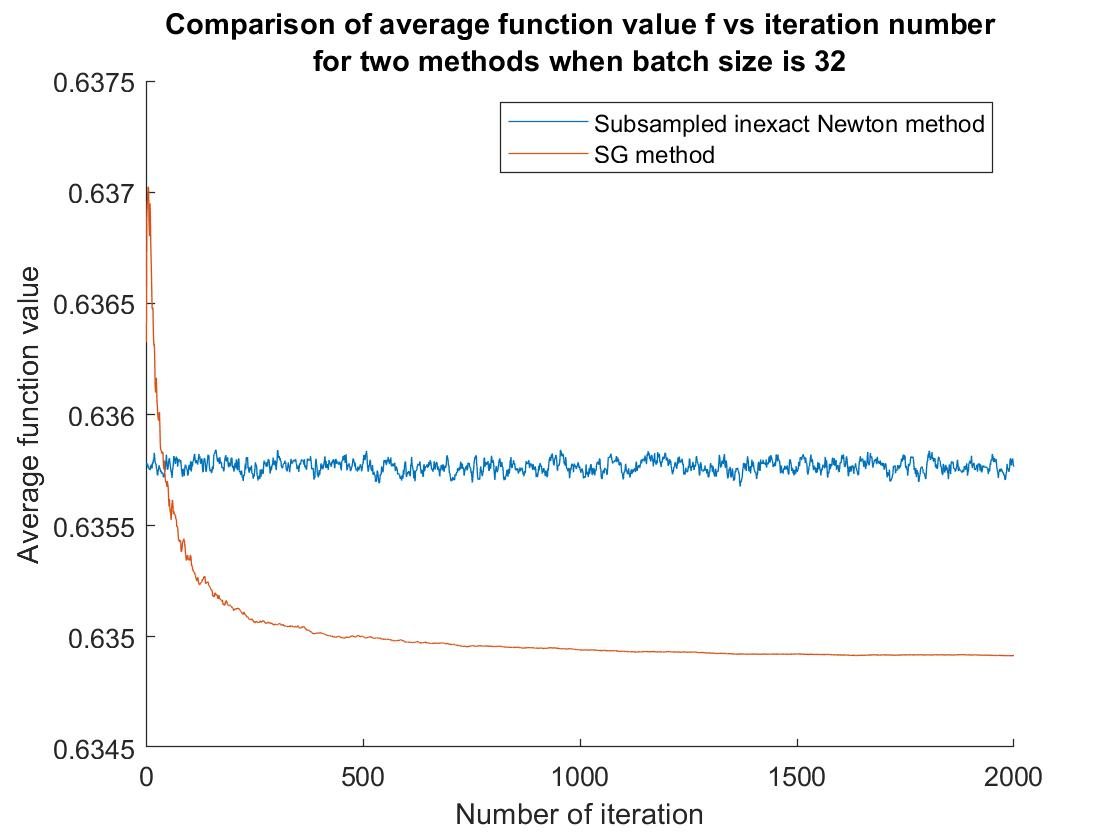
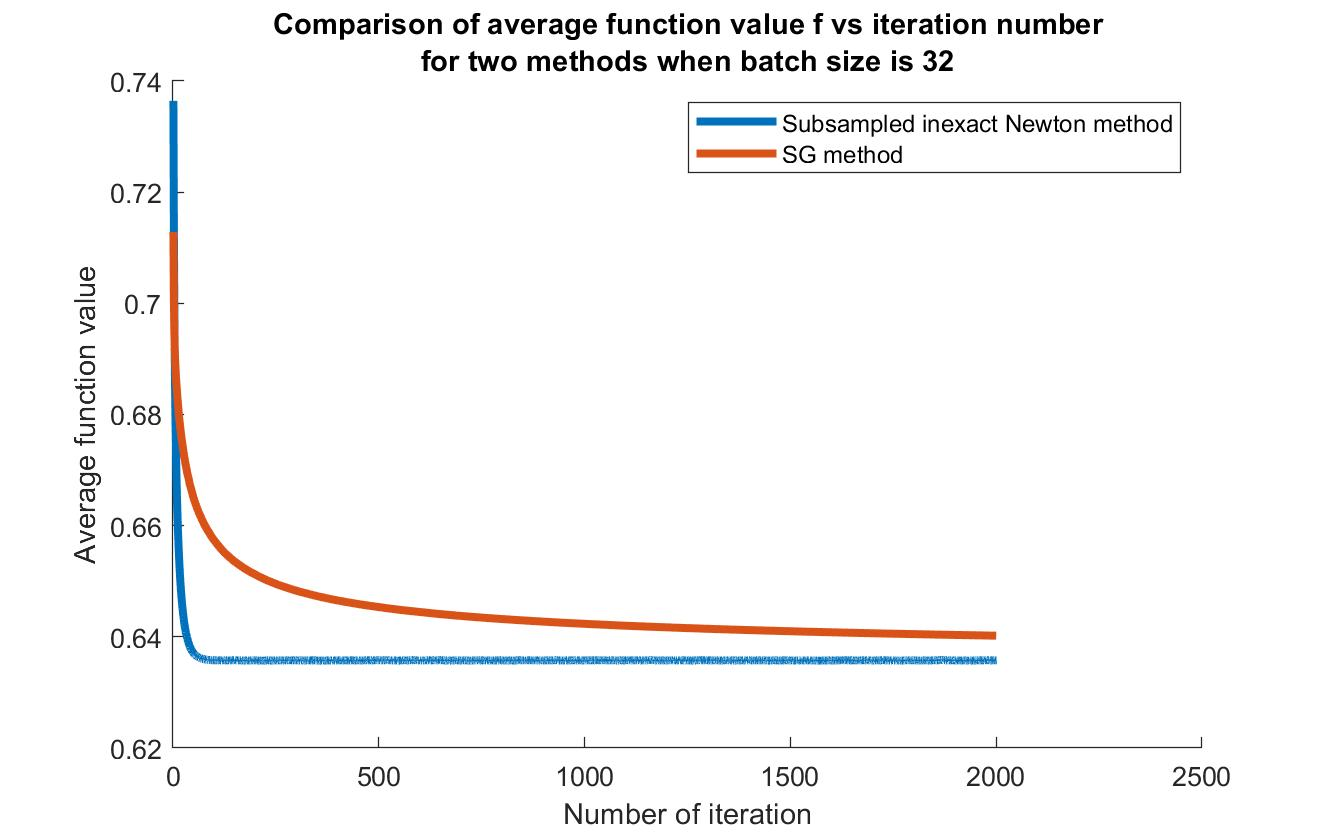
AMSC808N

Changed region(s): [[0.0, 0.0619, 0.9375, 0.9905], [0.1562, 0.0, 0.9062, 0.2167]]

diff --git a/Project/Project 1/Project1/StochasticLBFGS.m b/Project/Project 1/Project1/StochasticLBFGS.m
@@ -1,105 +1,116 @@
-function gnorm = StochasticLBFGS(fun,gfun,Hvec,Y,w)
-%%  the Rosenbrock function and parameters
-a = 5;
-% func = @(x,y)(1-x).^2 + a*(y - x.^2).^2;  % Rosenbrock's function
-% gfun = @(x)[-2*(1-x(1))-4*a*(x(2)-x(1)^2)*x(1);2*a*(x(2)-x(1)^2)]; % gradient of f
-% Hfun = @(x)[2 + 12*a*x(1)^2 - 4*a*x(2), -4*a*x(1); -4*a*x(1), 2*a]; % Hessian of f
-gam = 0.9; % line search step factor
-jmax = ceil(log(1e-14)/log(gam)); % max # of iterations in line search
-eta = 0.5; % backtracking stopping criterion factor
+function [w,f,gnorm] = StochasticLBFGS(fun,gfun,Hvec,Y)
+iter = 1e3;
 tol = 1e-10;
-m = 5; % the number of steps to keep in memory
-%% 
-close all
-figure;
-hold on; grid;
-x0 = [-1.3;1.5];  %initial guess
-xstar = [1;1]; % the global minimizer
-[xx,yy]=meshgrid(linspace(-2,2,1000),linspace(-1.5,2,1000));
-ff = func(xx,yy);
-plot(xstar(1),xstar(2),'r.','Markersize',40);
-daspect([1,1,1])
-col = [0.4,0.2,0];
-%
-s = zeros(2,m);
-y = zeros(2,m);
-rho = zeros(1,m);
-gnorm = zeros(1,1000);
-%
-n = size(Y,1);
-I=1:n;
-bsz = min(n,64); % batch size
 
-x = x0;
-g = gfun(x);
+n = size(Y,1);
+batch_g = 64;
+batch_h = 128;
+m = 5; % the number of steps to keep in memory
+M = 10; %# of steps of updating inverse of Hessian % batch size
+
+
+w0 = [-1;-1;1;1];  %initial guess
+
+
+s = zeros(4,m);
+y = zeros(4,m);
+rho = zeros(1,m);
+gnorm = zeros(iter,1);
+% f = zeros(iter,1);
+%
+w = w0;
+I = 1:n;
+g = gfun(I,Y,w);
 gnorm(1) = norm(g);
-plot(x(1),x(2),'.','color',col,'Markersize',20);
-fx = func(x(1),x(2));
-contour(xx,yy,ff,[fx,fx],'k','Linewidth',1);
+
+a = 0.1;
+
 % first do steepest decend step
-a = linesearch(x,-g,g,func,eta,gam,jmax);
-xnew = x - a*g;
-gnew = gfun(xnew);
-s(:,1) = xnew - x;
+r = randi([1,n],batch_g,1);
+g = gfun(I,Y,w);
+
+wnew = w - a.*g;
+gnew = gfun(I,Y,wnew);
+
+s(:,1) = wnew - w;
 y(:,1) = gnew - g;
 rho(1) = 1/(s(:,1)'*y(:,1));
-plot([x(1),xnew(1)],[x(2),xnew(2)],'Linewidth',2,'color',col);
-x = xnew;
+
+w = wnew;
 g = gnew;
 nor = norm(g);
-gnorm(2) = nor;
-plot(x(1),x(2),'.','color',col,'Markersize',20);
-fx = func(x(1),x(2));
-contour(xx,yy,ff,[fx,fx],'k','Linewidth',1);
-iter = 1;
-while nor > tol
-    if iter < m
-        I = 1 : iter;
+gnorm(1) = nor;
+f = zeros(iter,1);
+f(1) = fun(I,Y,w);
+
+
+k = 1;
+
+while k < iter
+    stepsize = 1./(1+k/2);
+    if k < m*M
+        upbd = ceil(k./M);
+        I = 1 : upbd;
         p = finddirection(g,s(:,I),y(:,I),rho(I));
     else
         p = finddirection(g,s,y,rho);
     end
-    [a,j] = linesearch(x,p,g,func,eta,gam,jmax);
-    if j == jmax
-        p = -g;
-        [a,j] = linesearch(x,p,g,func,eta,gam,jmax);
-    end
-    step = a*p;
-    xnew = x + step;
-    plot([x(1),xnew(1)],[x(2),xnew(2)],'Linewidth',2,'color',col);
-    gnew = gfun(xnew);
-    s = circshift(s,[0,1]); 
-    y = circshift(y,[0,1]);
-    rho = circshift(rho,[0,1]);
-    s(:,1) = step;
-    y(:,1) = gnew - g;
-    rho(1) = 1/(step'*y(:,1));
-    x = xnew;
-    g = gnew;
-    fx = func(x(1),x(2));
-    if nor > 1e-1
-        contour(xx,yy,ff,[fx,fx],'k','Linewidth',1);
-    end
-    plot(x(1),x(2),'.','color',col,'Markersize',20);
-    nor = norm(g);
-    iter = iter + 1;
-    gnorm(iter+1) = nor;
-end
-fprintf('L-BFGS: %d iterations, norm(g) = %d\n',iter,nor);
-set(gca,'Fontsize',16);
-xlabel('x_1','Fontsize',16);
-ylabel('x_2','Fontsize',16);
-gnorm(iter+1:end) = [];
-end
 
+    step = stepsize.*p;
+    wnew = w + step;
+    
+    if mod(k,M) == 0
+        s = circshift(s,[0,1]); 
+        y = circshift(y,[0,1]);
+        rho = circshift(rho,[0,1]);
+        
+        hess_seed1 = randi([1 n], 1, batch_h);
+        hess_seed2 = randi([1 n], 1, batch_h);
+        
+        g = gfun(hess_seed1,Y,wnew);
+        gnew = gfun(hess_seed2,Y,wnew);
+        
+        s(:,1) = step;
+        y(:,1) = gnew - g;
+        rho(1) = 1/(s(:,1)'*y(:,1));
+        
+    else
+        grad_seed = randi([1 n], 1, batch_g);
+        gnew = gfun(grad_seed,Y,w);
+        
+    end
+    
+    nor = norm(gnew);
+    if nor > .5
+        gnorm(k+1) = norm(g);
+        f(k+1) = fun(I,Y,w);
+    elseif k > 300 && nor > .1
+        gnorm(k+1) = norm(g);
+        f(k+1) = fun(I,Y,w);
+        
+    else
+        w = wnew;
+        g = gnew;
+        gnorm(k+1) = nor;
+        f(k+1) = fun(I,Y,w);
+    end
+    k = k+1;
+end
+    
+end
+        
+        
+   
 %%
-function [a,j] = linesearch(x,p,g,func,eta,gam,jmax)
+function [a,j] = linesearch(Y,w,p,g,fun,eta,gam,jmax)
     a = 1;
-    f0 = func(x(1),x(2));
+    n=size(Y);
+    I = 1:n;
+    f0 = fun(I,Y,w);
     aux = eta*g'*p;
     for j = 0 : jmax
-        xtry = x + a*p;
-        f1 = func(xtry(1),xtry(2));
+        wtry = w + a*p;
+        f1 = fun(I,Y,wtry);
         if f1 < f0 + a*aux
             break;
         else

diff --git a/Project/Project 1/Project1/problem3.m b/Project/Project 1/Project1/problem3.m
@@ -115,6 +115,7 @@ Ave_F_SG = zeros(maxiter,num_batch);
 F_SINewton = zeros(maxiter+1,num_batch);
 Ave_F_SINewton = zeros(maxiter+1,num_batch);
 
+%% for the SG method
 for m = 1: num_batch
     tic
     for j = 1:iter
@@ -138,7 +139,17 @@ legend('batch size=32','batch size=64','batch size=128');
 title({['Plot of average function value f vs iteration number']
     ['for SG method ']});
 
-%%
+figure;
+hold on 
+plot(Ave_F_SG(1:50,1),'Linewidth',3);
+plot(Ave_F_SG(1:50,2),'Linewidth',3);
+plot(Ave_F_SG(1:50,3),'Linewidth',3);
+xlabel('Number of iteration');
+ylabel('Average function value');
+legend('batch size=32','batch size=64','batch size=128');
+title({['Plot of average function value f vs iteration number']
+    ['for SG method ']});
+%% for the SINewton method
 for m = 1: num_batch
     tic
     
@@ -163,7 +174,7 @@ legend('batch size=32','batch size=64','batch size=128');
 title({['Plot of average function value f vs iteration number']
     ['for Subsampled inexact Newton method']});
 
-%
+%% plot the figures
 figure;
 hold on 
 n = [32 64 128];
@@ -175,8 +186,8 @@ title('Comparison of running time bewteen two methods');
 %
 figure;
 hold on 
-plot(Ave_F_SINewton(1:2000,1));
-plot(Ave_F_SG(1:2000,1));
+plot(Ave_F_SINewton(:,1),'Linewidth',3);
+plot(Ave_F_SG(:,1),'Linewidth',3);
 xlabel('Number of iteration');
 ylabel('Average function value');
 legend('Subsampled inexact Newton method','SG method');
@@ -185,8 +196,8 @@ title({['Comparison of average function value f vs iteration number']
 
 figure;
 hold on 
-plot(Ave_F_SINewton(1:2000,2));
-plot(Ave_F_SG(1:2000,2));
+plot(Ave_F_SINewton(:,2),'Linewidth',3);
+plot(Ave_F_SG(:,2),'Linewidth',3);
 xlabel('Number of iteration');
 ylabel('Average function value');
 legend('Subsampled inexact Newton method','SG method');
@@ -195,8 +206,8 @@ title({['Comparison of average function value f vs iteration number']
 
 figure;
 hold on 
-plot(Ave_F_SINewton(1:2000,3));
-plot(Ave_F_SG(1:2000,3));
+plot(Ave_F_SINewton(:,3),'Linewidth',3);
+plot(Ave_F_SG(:,3),'Linewidth',3);
 xlabel('Number of iteration');
 ylabel('Average function value');
 legend('Subsampled inexact Newton method','SG method');

diff --git a/Project/Project 1/Project1/problem4.m b/Project/Project 1/Project1/problem4.m
@@ -1,4 +1,4 @@
-function Project1main()
+function problem4()
 close all
 %% read data
 A2012 = readmatrix('A2012.csv');
@@ -104,10 +104,11 @@ w = [-1;-1;1;1];
 fun = @(I,Y,w)fun0(I,Y,w,lam);
 gfun = @(I,Y,w)gfun0(I,Y,w,lam);
 Hvec = @(I,Y,w,v)Hvec0(I,Y,w,v,lam);
+normf = zeros(1000,100);
 
-[w,f,gnorm] = StochasticLBFGS(fun,gfun,Hvec,Y,w);
+[w,f,gnorm] = S_LBFGS(fun,gfun,Hvec,Y);
 
-fprintf('w = [%d,%d,%d], b = %d\n',w(1),w(2),w(3),w(4));
+% fprintf('w = [%d,%d,%d], b = %d\n',w(1),w(2),w(3),w(4));
 
 xmin = min(XX(:,1)); xmax = max(XX(:,1));
 ymin = min(XX(:,2)); ymax = max(XX(:,2));

diff --git a/Project/Project 1/Project1/problem2.m b/Project/Project 1/Project1/problem2.m
@@ -1,4 +1,4 @@
-function problem2a()
+function problem2()
 close all
 %% read data
 A2012 = readmatrix('A2012.csv');
@@ -98,7 +98,7 @@ ylabel(str(i2),'Fontsize',fsz);
 zlabel(str(i3),'Fontsize',fsz);
 %% set up optimization problem
 [n,dim] = size(XX);
-lam = 0.01;
+lam = 0.01; %0.001,1
 Y = (label*ones(1,dim + 1)).*[XX,ones(n,1)];
 w = [-1;-1;1;1];
 fun = @(I,Y,w)fun0(I,Y,w,lam);

diff --git a/Project/Project 1/Project1/problem1_SINewton.m b/Project/Project 1/Project1/problem1_SINewton.m
@@ -1,4 +1,4 @@
-function problem1a()
+function problem1_SINewton()
 close all
 %% read data
 A2012 = readmatrix('A2012.csv');

diff --git a/Project/Project 1/Project1/problem1_SG.m b/Project/Project 1/Project1/problem1_SG.m
@@ -1,4 +1,4 @@
-function problem1b()
+function problem1_SG()
 close all
 %% read data
 A2012 = readmatrix('A2012.csv');
